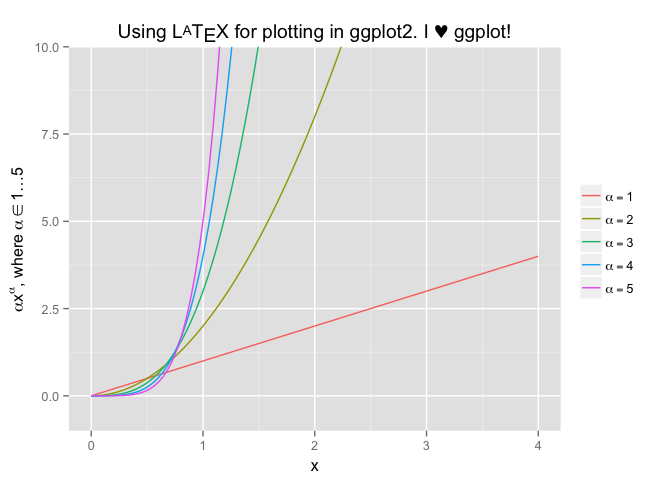
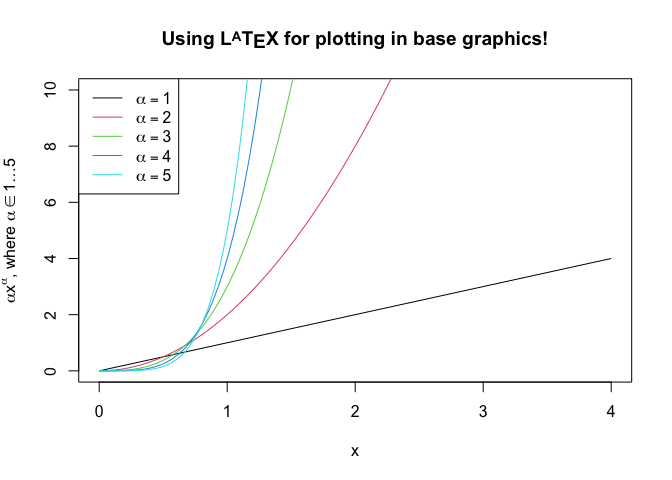
Updated documentation

diff --git a/README.md b/README.md
@@ -1,10 +1,15 @@
-latex2exp
-=========
+# latex2exp
 
-**latex2exp** is an R package that parses and converts LaTeX math formulas to R's [plotmath expressions](http://stat.ethz.ch/R-manual/R-patched/library/grDevices/html/plotmath.html). Plotmath expressions are used to enter mathematical formulas and symbols to be rendered as text, axis labels, etc. throughout R's plotting system. I find plotmath expressions to be quite opaque, while LaTeX is a de-facto standard for mathematical expressions, so this package might be useful to others as well.
+**latex2exp** is an R package that parses and converts LaTeX math
+formulas to R’s [plotmath
+expressions](http://stat.ethz.ch/R-manual/R-patched/library/grDevices/html/plotmath.html).
+Plotmath expressions are used to enter mathematical formulas and symbols
+to be rendered as text, axis labels, etc. throughout R’s plotting
+system. I find plotmath expressions to be quite opaque, while LaTeX is a
+de-facto standard for mathematical expressions, so this package might be
+useful to others as well.
 
-Installation
-------------
+## Installation
 
 Install this package from CRAN:
 
@@ -12,28 +17,40 @@ Install this package from CRAN:
 install.packages('latex2exp')
 ```
 
-You can also install from GitHub using [devtools](http://cran.r-project.org/web/packages/devtools/index.html):
+You can also install from GitHub using
+[devtools](http://cran.r-project.org/web/packages/devtools/index.html):
 
 ``` r
 devtools::install_github('stefano-meschiari/latex2exp')
 ```
 
-Usage
------
+## Usage
 
 ``` r
 library(latex2exp)
 ```
 
-The `latex2exp` function takes a LaTeX string and returns a plotmath expression suitable for use in plotting, e.g.,
+The `TeX` function takes a LaTeX string and returns a plotmath
+expression suitable for use in plotting, e.g.,
 
 ``` r
-TeX('$\\alpha^\\beta$')
+TeX('$\\gamma^\\alpha$')
 ```
 
-(note it is *always* necessary to escape the backslash within a string, hence the double backslash).
+Before R 4.0, it is necessary to escape the backslash within the string
+literal: therefore, one writes `'$\\gamma$'` rather than `'$\gamma$'`
+(the latter will cause an error).
 
-The return value of `TeX()` can be used anywhere a plotmath expression is accepted, including plot labels, legends, and text.
+After R 4.0, it is recommended to use the new raw string literal syntax
+(see `?Quotes`). The syntax looks like `r"(...)"`, where `...` can
+contain any character sequence, including `\`:
+
+``` r
+TeX(r'($\gamma^\alpha$)')
+```
+
+The return value of `TeX()` can be used anywhere a plotmath expression
+is accepted, including plot labels, legends, and text.
 
 The following example shows plotting in base graphics:
 
@@ -42,66 +59,81 @@ x <- seq(0, 4, length.out=100)
 alpha <- 1:5
 
 plot(x, xlim=c(0, 4), ylim=c(0, 10), 
-     xlab='x', ylab=TeX('$\\alpha  x^\\alpha$, where $\\alpha \\in 1\\ldots 5$'), 
-     type='n', main=TeX('Using $\\LaTeX$ for plotting in base graphics!'))
+     xlab='x', ylab=TeX(r'($\alpha  x^\alpha$, where $\alpha \in 1 \ldots 5$)'), 
+     type='n', main=TeX(r'(Using $\LaTeX$ for plotting in base graphics!)', bold=TRUE, italic=TRUE))
 
 invisible(sapply(alpha, function(a) lines(x, a*x^a, col=a)))
 
-legend('topleft', legend=TeX(sprintf("$\\alpha = %d$", alpha)), 
+legend('topleft', legend=TeX(sprintf(r'($\alpha = %d$)', alpha)), 
        lwd=1, col=alpha)
 ```
 
-![](README_files/figure-markdown_github/unnamed-chunk-5-1.png)
+![](README_files/figure-markdown_github/unnamed-chunk-6-1.png)
 
 This example shows plotting in [ggplot2](http://ggplot2.org):
 
 ``` r
-library(plyr)
+library(purrr)
+library(ggplot2)
+library(tibble)
+
 x <- seq(0, 4, length.out=100)
 alpha <- 1:5
-data <- mdply(alpha, function(a, x) data.frame(v=a*x^a, x=x), x)
+data <- map_df(alpha, ~ tibble(v=.*x^., x=x, alpha=.))
 
-p <- ggplot(data, aes(x=x, y=v, color=X1)) +
+p <- ggplot(data, aes(x=x, y=v, color=as.factor(alpha))) +
     geom_line() + 
-    ylab(TeX('$\\alpha  x^\\alpha$, where $\\alpha \\in 1\\ldots 5$')) +
-    ggtitle(TeX('Using $\\LaTeX$ for plotting in ggplot2. I $\\heartsuit$ ggplot!')) +
+    ylab(TeX(r'($\alpha  x^\alpha$, where $\alpha \in 1\ldots 5$)')) +
+    ggtitle(TeX(r'(Using $\LaTeX$ for plotting in ggplot2. I $\heartsuit$ ggplot!)')) +
     coord_cartesian(ylim=c(-1, 10)) +
     guides(color=guide_legend(title=NULL)) +
-    scale_color_discrete(labels=lapply(sprintf('$\\alpha = %d$', alpha), TeX)) 
+    scale_color_discrete(labels=lapply(sprintf(r'($\alpha = %d$)', alpha), TeX)) 
     # Note that ggplot2 legend labels must be lists of expressions, not vectors of expressions
 
 print(p)
 ```
 
-![](README_files/figure-markdown_github/unnamed-chunk-6-1.png)
-
-You can quickly test out what a translated LaTeX string would look like by using `plot`:
-
-``` r
-plot(TeX("A $\\LaTeX$ formula: $\\frac{2hc^2}{\\lambda^5} \\, 
-               \\frac{1}{e^{\\frac{hc}{\\lambda k_B T}} - 1}$"), cex=2)
-```
-
 ![](README_files/figure-markdown_github/unnamed-chunk-7-1.png)
 
-Syntax
-------
+You can quickly test out what a translated LaTeX string would look like
+by using `plot`:
+
+``` r
+plot(TeX(r'(A $\LaTeX$ formula: $\frac{2hc^2}{\lambda^5} \, 
+               \frac{1}{e^{\frac{hc}{\lambda k_B T}} - 1}$)'), cex=2)
+```
+
+![](README_files/figure-markdown_github/unnamed-chunk-8-1.png)
+
+## Syntax
 
 Use
 
 ``` r
-TeX('latexString')
+TeX(r'(My string containing math $\sin(2\pi\lambda x)$)')
 ```
 
-to build a plotmath expression, ready for use in plots. If the parser cannot build a correct plotmath expression, it will `stop()` and show the invalid plotmath expression built.
+to build a plotmath expression, ready for use in plots. If the parser
+cannot build a correct plotmath expression, it will `stop()` and show
+the invalid plotmath expression built.
+
+Add parameters `bold=TRUE` or `italic=TRUE` to make the entire label
+bold or italic:
+
+``` r
+TeX(r'(My string containing math $\sin(2\pi\lambda x)$)', bold=TRUE, italic=TRUE)
+```
 
 ``` r
 TeX('latexString', output=c('expression', 'character', 'ast'))
 ```
 
-If the `output` option is equal to `character`, it will return the string representation of the expression (which could be converted into an expression using `parse(text=)`).
+If the `output` option is equal to `character`, it will return the
+string representation of the expression (which could be converted into
+an expression using `parse(text=)`).
 
-If the `output` option is equal to `ast`, it will return the tree built by the parser (this is only useful for debugging).
+If the `output` option is equal to `ast`, it will return the tree built
+by the parser (this is only useful for debugging).
 
 ------------------------------------------------------------------------
 
@@ -117,14 +149,16 @@ will show a demo of the supported LaTeX syntax.
 latex2exp_supported(plot=FALSE)
 ```
 
-returns a list of supported LaTeX. If `plot=TRUE`, a table of symbols will be plotted.
+returns a list of supported LaTeX. If `plot=TRUE`, a table of symbols
+will be plotted.
 
-"Supported" LaTeX
------------------
+## Supported LaTeX
 
 Formulas should go between dollar characters ($).
 
-Only a subset of LaTeX is supported, and not 100% correctly. Greek symbols (\\alpha, \\beta, etc.) and the usual operators (+, -, etc.) are supported.
+Only a subset of LaTeX is supported. Greek symbols (\\alpha, \\beta,
+etc.) and the usual operators (+, -, etc.) are supported. Their
+rendering depends on R’s interpretation of the plotmath expression.
 
 In addition, the following should be supported:
 
@@ -132,9 +166,7 @@ In addition, the following should be supported:
 latex2exp_supported(plot=TRUE)
 ```
 
-![](README_files/figure-markdown_github/unnamed-chunk-12-1.png)
-
-Their rendering depends on R's interpretation of the plotmath expression.
+![](README_files/figure-markdown_github/unnamed-chunk-14-1.png)
 
 A few examples:
 
@@ -142,29 +174,39 @@ A few examples:
 latex2exp_examples()
 ```
 
-![](README_files/figure-markdown_github/unnamed-chunk-13-1.png)
+![](README_files/figure-markdown_github/unnamed-chunk-15-1.png)
 
     ## [1] TRUE
 
-Changes
--------
+## Changes
+
+### 0.5.0 \[03/14/2020\]
+
+-   Adds parameters `bold` and `italic` to `TeX()`. These can be used to
+    make the entire expression bold or italic.
+-   Adds `\phantom{}`
+    ([PR](https://github.com/stefano-meschiari/latex2exp/pull/22))
 
 ### 0.4.0 \[08/29/2015\]
 
 -   Deprecated the `latex2exp()` function; use `TeX()` instead.
--   Added `\lbrack` and `\rbrack` to type left and right square brackets.
+-   Added `\lbrack` and `\rbrack` to type left and right square
+    brackets.
 
 ### 0.3.3 \[08/11/2015\]
 
-Fixes bug \#4 ("fix parsing of numbers"), where certain numbers inside formulas where not parsed correctly.
+Fixes bug \#4 (“fix parsing of numbers”), where certain numbers inside
+formulas where not parsed correctly.
 
 ### 0.3.2 \[07/28/2015\]
 
-Fixes bug \#3 ("subscript and superscript style"). `latex2exp` now renders combined subscripts and superscripts correctly.
+Fixes bug \#3 (“subscript and superscript style”). `latex2exp` now
+renders combined subscripts and superscripts correctly.
 
 ### 0.3.1 \[07/02/2015\]
 
-Fixes bug \#2 (white space causes unexpected behaviour). `latex2exp` should now be a bit more compliant with how LaTeX handles whitespace.
+Fixes bug \#2 (white space causes unexpected behaviour). `latex2exp`
+should now be a bit more compliant with how LaTeX handles whitespace.
 
 ### 0.3.0 \[06/30/2015\]
 
@@ -172,9 +214,5 @@ Fixes bug \#2 (white space causes unexpected behaviour). `latex2exp` should now 
 
 ### 0.2.0 \[06/29/2015\]
 
-Formulas must now be enclosed between dollar characters ($), as in LaTeX proper. Text does not need to be enclosed in \\text tags anymore.
-
-FAQ
----
-
-This function will get easily confused by even very simple LaTeX formulas (as I mentioned, it's a work in progress!). Please file a bug.
+Formulas must now be enclosed between dollar characters ($), as in LaTeX
+proper. Text does not need to be enclosed in \\text tags anymore.
